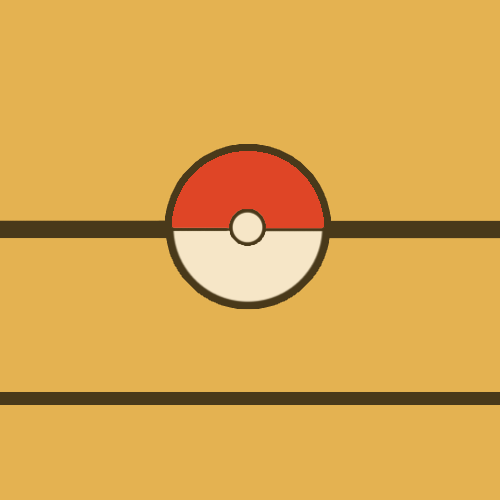
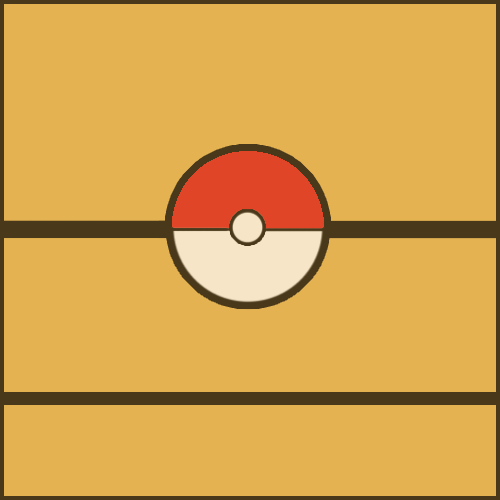
making the game look a lot cleaner, slowed fire rate of charizard

Changed region(s): [[0.0, 0.0, 1.0, 1.0], [0.0, 0.48, 0.03, 0.78]]

diff --git a/index.html b/index.html
@@ -10,12 +10,18 @@
   <link rel="stylesheet" type="text/css" href="style.css">
 
   <style>
-     #gameboard { background-image:url('images/gbackground.png'); background-repeat:repeat; }
+     #gameboard { background-image:url('images/gbackground1.png'); background-repeat:repeat; }
       #game-wrapper { margin:0 auto; width: 500px; }
   </style>
 </head>
 <body>
-  <div id='game-wrapper'>
+  <div id='title'>  
+      
+      <img src="images/titleimg.png" alt="title">     
+    
+    </div>
+    
+    <div id='game-wrapper'>
         
         <canvas id='gameboard' width='500' height='500'></canvas>
         <p id="score"> SCORE : 0</p>

diff --git a/style.css b/style.css
@@ -19,9 +19,9 @@ body{
 }
 
 #game-wrapper #lives {
-    color: yellow;
+    color: #405aa7;
     font-weight: 20;
-    font-family: OCR A Std;
+    font-family: Karmatic Arcade;
     font-size: 30px;
     text-align: left;
     float: left;
@@ -29,12 +29,17 @@ body{
 }
 
 #game-wrapper #score {
-    color: yellow;
+    color: #405aa7;
     font-weight: 20;
-    font-family: OCR A Std;
+    font-family: Karmatic Arcade;
     font-size: 30px;
     text-align: right;
     float: right;
     padding: 10;
     
+}
+
+#title  {
+    margin:0 auto; 
+    width: 500px;
 }

diff --git a/js/game.js b/js/game.js
@@ -147,7 +147,7 @@ Player.prototype.step = function(dt) {
   this.reloading--;
 
 //this is where I change the players fire rate.
-  if(Game.keys['fire'] && this.reloading <= 0 && this.board.flames < 10) {
+  if(Game.keys['fire'] && this.reloading <= 1 && this.board.flames < 3) {
     GameAudio.play('fire');
     this.board.addSprite('flame',
                           this.x + this.w/2 - Sprites.map.flame.w/2,

diff --git a/js/level.js b/js/level.js
@@ -58,7 +58,7 @@ function loseLifeScreen() {
   }
 
   function startGame() {
-    var screen = new GameScreen("Charizard Attaack","press space to start",
+    var screen = new GameScreen("Charizard Training","press space to start",
                                 
                                  function() {
                                      Game.loadBoard(new GameBoard(1));
